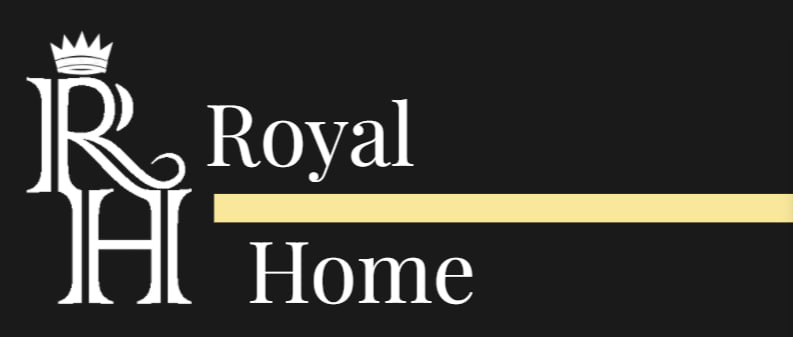
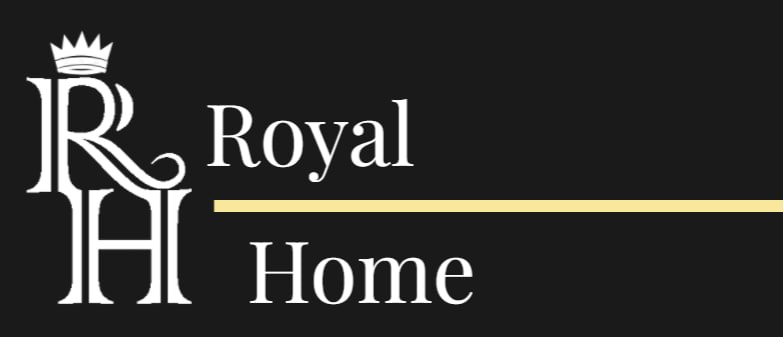
HomePage

Changed region(s): [[0.0613, 0.2374, 1.0, 0.9199], [0.3065, 0.7122, 0.613, 0.9199], [0.0613, 0.089, 0.1533, 0.2077]]

diff --git a/my-app/src/Pages/PageHome/content/Block3.jsx b/my-app/src/Pages/PageHome/content/Block3.jsx
@@ -1,5 +1,10 @@
 import "../../PageHome/Block3.css"
 import Photo6 from "../../../assets/images/HomePage/photo6.jpg"
+import Item1 from "../../../assets/images/HomePage/item1.png"
+import Item2 from "../../../assets/images/HomePage/item2.png"
+import Item3 from "../../../assets/images/HomePage/item3.png"
+import Item4 from "../../../assets/images/HomePage/item4.png"
+
 export default function Block3(){
     return(
         <container id="containerBlock3">
@@ -8,18 +13,39 @@ export default function Block3(){
                 <hr id="Block3LineGreen"/>
                 <div id="ContainerIconBlocks">
                     <div className="items" id="item1">
-                        
+                        <img src={Item1} id="Item1"></img>
+                        <p className="ItemText">Our Goal</p>
+                        <p id="Item1Text">Interiors provide customer focused,<br/>
+                        design-led products and services, <br/>
+                        procured and delivered.</p>
+                        </div>
+                        <div className="items" id="item2">
+                        <img src={Item2} id="Item2"></img>
+                        <p className="ItemText">Our Vision</p>
+                        <p id="Item2Text">Interiors are the most intelligent,<br/>
+                        innovative and industrious supplier <br/>
+                        of furniture and accessories.</p>
+                        </div>
+                        <div className="items" id="item3">
+                        <img src={Item3} id="Item3"></img>
+                        <p className="ItemText">Our Mission</p>
+                        <p id="Item3Text">Interiors provide a “one stop” <br/>
+                        furnishing solution to the residential<br/>
+                        property sector.</p>
+                        </div>
+                        <div className="items" id="item4">
+                        <img src={Item4} id="Item4"></img>
+                        <p className="ItemText">Our Values</p>
+                        <p id="Item4Text">Interiors are a modern, ethical,,<br />
+                        socially and environmentally <br/>
+                        conscious business.</p>
                     </div>
-                    <div className="items" id="item2">
-
-                    </div>
-                    <div className="items" id="item3">
-
-                    </div>
-                    <div className="items" id="item4">
-
-                    </div>
-                </div>
+                   
+                </div> 
+                <p id="Block3Text">Core to everything we do is our service. Products may change<br/>
+                     with the seasons or requirements of the market but we'll always<br/>
+                      aim to take the challenges and complexities of replenishment <br/>
+                       and large-scale furnishing out of our clients' hands.</p>
             </div>
         </container>
     )

diff --git a/my-app/src/Pages/PageHome/Block4.css b/my-app/src/Pages/PageHome/Block4.css
@@ -2,6 +2,135 @@
 #Block4{
     padding-top: 20em;
     background-color: white;
+    height: 80em;
+    width: 120em;
+}
+#Block4BlackBlock{
+    height: 20em;
+    background-color: black;
+    margin-top: -22em;
+}
+#Photo7{
+    position: absolute;
     height: 30em;
-    width: 110em;
+    width: 28em;
+    border-radius: 50px;
+    box-shadow: 5px 5px 20px rgba(0, 0, 0, 0.7);
+    margin-left:-50em;
+    z-index: 1;
+}
+#Photo8{
+    position: absolute;
+    height: 40em;
+    width: 28em;
+    border-radius: 50px;
+    box-shadow: 5px 5px 20px rgba(0, 0, 0, 0.7);
+    margin-left:13em;
+    margin-top: -15em;
+    z-index: 1;
+}
+#TextBlock4{
+    color: white;
+    padding-top: 2em;
+    padding-right: 10em;
+    font-size: 2em;
+}
+#Block4GreenBlock{
+    background-color:#304f3b; ;
+    position: absolute;
+    height: 34em;
+    width: 50em;
+    margin-left: 18em;
+    border-radius: 50px;
+    box-shadow: 5px 5px 20px rgba(0, 0, 0, 0.7);
+    margin-top: -4em;
+}
+#Block4BlockGreenText{
+    color: white;
+    align-items: center;
+    text-align: left;
+    margin-top: 15em;
+    margin-left: 2em;
+    font-size: 1.2em;
+}
+#Block4Text{
+    color: white;
+    font-size: 3em;
+    position: absolute;
+    margin-left: 8em;
+    margin-top: 2em;
+}
+#Photo9{
+    position: absolute;
+    height: 35em;
+    width: 28em;
+    border-radius: 50px;
+    box-shadow: 5px 5px 20px rgba(0, 0, 0, 0.7);
+    z-index: 1;
+    margin-top: 40em;
+    margin-left: -50em;
+}
+#Photo10{
+    position: absolute;
+    height: 35em;
+    width: 28em;
+    border-radius: 50px;
+    box-shadow: 5px 5px 20px rgba(0, 0, 0, 0.7);
+    margin-left: 13em;
+    margin-top: 30em;
+    z-index: 1;
+}
+#Block4YellowBlock{
+    background-color:#f9e79b;
+    border-top-right-radius: 50px;
+    height:45em;
+    width: 50em;
+    position: absolute;
+    margin-top: 35em;
+    box-shadow: 5px 5px 20px rgba(0, 0, 0, 0.7);
+}
+#Block4BlackBlock2{
+    position: absolute;
+    background-color: black;
+    border-radius: 50px;
+    height: 30em;
+    width: 35em;
+    margin-top: 40em;
+    margin-left: 44em;
+    color: white;
+}
+#Block4BlackBloc2Text{
+    color: white;
+    font-family: 'Playfair Display SC', serif;
+    font-size: 2em; 
+    padding-right: 1.7em;   
+}
+.SocialIcons{
+    display: grid;
+    grid-template-columns: 5em;
+    padding: 2em;
+}
+#SocialText1{
+    position: absolute;
+    padding-left: 7em;
+    font-size: 1.7em;
+    margin-top: -3em;
+    font-family: 'Playfair Display SC', serif;
+
+}
+#SocialText2{
+    position: absolute;
+    padding-left: 7em;
+    font-size: 1.7em;
+    margin-top: -3em;
+    font-family: 'Playfair Display SC', serif;
+
+}
+#SocialText3{
+    position: absolute;
+    padding-left: 5em;
+    font-size: 1.7em;
+    margin-top: -3em;
+    font-family: 'Playfair Display SC', serif;
+
 }

diff --git a/my-app/src/Pages/PageHome/content/Block4.jsx b/my-app/src/Pages/PageHome/content/Block4.jsx
@@ -1,9 +1,53 @@
 import "../../PageHome/Block4.css"
+import Photo7 from "../../../assets/images/HomePage/photo7.jpg"
+import Photo8 from "../../../assets/images/HomePage/photo8.png"
+import Photo9 from "../../../assets/images/HomePage/photo9.jpg"
+import Photo10 from "../../../assets/images/HomePage/photo10.jpg"
+import Instagram from "../../../assets/images/HomePage/instagram.png"
+import Facebook from "../../../assets/images/HomePage/facebook.png"
+import Google from "../../../assets/images/HomePage/google.png"
+
 export default function Block4(){
     return(
         <container id="containerBlock4">
             <div id="Block4">
-                Block4
+                <div id="Block4BlackBlock">
+                    <img src={Photo7} id="Photo7"></img>
+                    <p id="TextBlock4">
+                        We Deliver.<br/>
+                        We Assemble.<br/>
+                        We Install. <br/>
+                        We Recycle.
+                    </p>
+                </div>
+                <div id="Block4GreenBlock">
+                    <p id="Block4Text">
+                    TESTIMONIALS
+                    </p>
+                    <p id="Block4BlockGreenText">
+                    As we've grown in size our service offering and added value elements have <br/>
+                    grown and developed alongside us as we continue to improve and take <br/>
+                    responsibility for everything we do from product sourcing to logistics,<br/>
+                    delivery and installations.Core to everything we do is our service.<br/>
+                    Products may change with the seasons or requirements of the market but we'll <br/>
+                    always aim to take delivery and installations.
+                    Core to everything w the challenges and <br/>
+                    complexities of replenishment and large-scale furnishing out of our clients' hands.
+                    </p>
+                </div>
+                <img src={Photo8} id="Photo8"></img>
+                <img src={Photo9} id="Photo9"></img>
+                <img src={Photo10} id="Photo10"></img>
+                <div id="Block4YellowBlock"></div>
+                <div id="Block4BlackBlock2">
+                    <p id="Block4BlackBloc2Text">SOICAL MEDIA</p>
+                    <img src={Instagram}className="SocialIcons" ></img>
+                    <p id="SocialText1">royal.home</p>
+                    <img src={Facebook} className="SocialIcons"></img>
+                    <p id="SocialText2">royal-home</p>
+                    <img src={Google} className="SocialIcons"></img>
+                    <p id="SocialText3">royal.home@gmail.com</p>
+                </div>
             </div>
         </container>
     )

diff --git a/my-app/src/Pages/PageHome/Block3.css b/my-app/src/Pages/PageHome/Block3.css
@@ -24,10 +24,58 @@
     z-index: 5;
 }
 #ContainerIconBlocks{
+    display: grid;
+    grid-template-columns: 20em 20em;
+    align-items: center;
     height: 45em;
     width: 40em;
     position: absolute;
     margin-top: -15em;
-    margin-left: 3em;
-    background-color: white;
+    margin-left:7em;
+    background-color: black;
 }
+#Item1{
+    height: 5em;
+    width: 5em;
+}
+#Item2{
+    height: 5em;
+    width: 5em;
+}
+#Item3{
+    height: 5em;
+    width: 5em;
+}
+#Item4{
+    height: 5em;
+    width: 5em;
+}
+.ItemText{
+    font-size: 2em;
+    color: white;
+}
+#Item1Text{
+    font-size: 1.2em;
+    color: white;
+}
+#Item2Text{
+    font-size: 1.2em;
+    color: white;
+}
+#Item3Text{
+    font-size: 1.2em;
+    color: white;
+}
+#Item4Text{
+    font-size: 1.2em;
+    color: white;
+}
+#Block3Text{
+    color: white;
+    position: absolute;
+    margin-top: 10em;
+    margin-left: 35em;
+    font-size: 1.6em;
+    text-align: left;
+}
+

diff --git a/my-app/src/Pages/PageHome/Block2.css b/my-app/src/Pages/PageHome/Block2.css
@@ -62,8 +62,8 @@
     box-shadow: 2px 2px 10px rgba(0, 0, 0, 0.7);
     font-size: 0.9em;
     cursor: pointer;
-    margin-left: -95em;
-    margin-top: 44em;
+    margin-left: -88em;
+    margin-top: 48em;
 }
 #Photo4{
     margin-top: 55em;
@@ -102,6 +102,8 @@
     margin-top: 28em;
     margin-left: 50em;
     box-shadow: 5px 5px 20px rgba(0, 0, 0, 0.7);
+    border-bottom-left-radius: 50px;
+    border-top-left-radius: 50px;
 
 }
 #BlockText4{
@@ -111,6 +113,7 @@
     box-shadow: 5px 5px 20px rgba(0, 0, 0, 0.7);
     text-align: left;
     padding-left: 1em;
+    border-top-left-radius: 50px;
 
 }
 #ButtonBlock2Yellow{

diff --git a/my-app/src/Pages/PageHome/Block1.css b/my-app/src/Pages/PageHome/Block1.css
@@ -11,9 +11,11 @@
 #PhotoA{
     height: 40em;
     width: 30em;
-    padding-top: 3em;
+    margin-top: 3em;
     margin-left: 60em;
     border-radius: 8em;
+    box-shadow: 1px 1px 10px rgba(255, 252, 252, 0.7);
+
 }
 #block1text{
     font-family:'Segoe UI', Tahoma, Geneva, Verdana, sans-serif;
@@ -26,9 +28,10 @@
     margin-left: -90em;
     height: 20em;
     width: 45em;
+
 }
 #lineBlock1{
-    height: 1em;
+    height: 0.5em;
     width: 25em;
     background-color: #f9e79b;
     position: absolute;

diff --git a/my-app/src/Pages/PageHome/index.jsx b/my-app/src/Pages/PageHome/index.jsx
@@ -1,10 +1,12 @@
 import Block1 from "./content/Block1"
 import Block2 from "./content/Block2"
 import Block3 from "./content/Block3"
+import Block4 from "./content/Block4"
 export default function HomePage(){
     return(<>
         <Block1></Block1>
         <Block2></Block2>
         <Block3></Block3>
+        <Block4></Block4>
     </>)
 }
